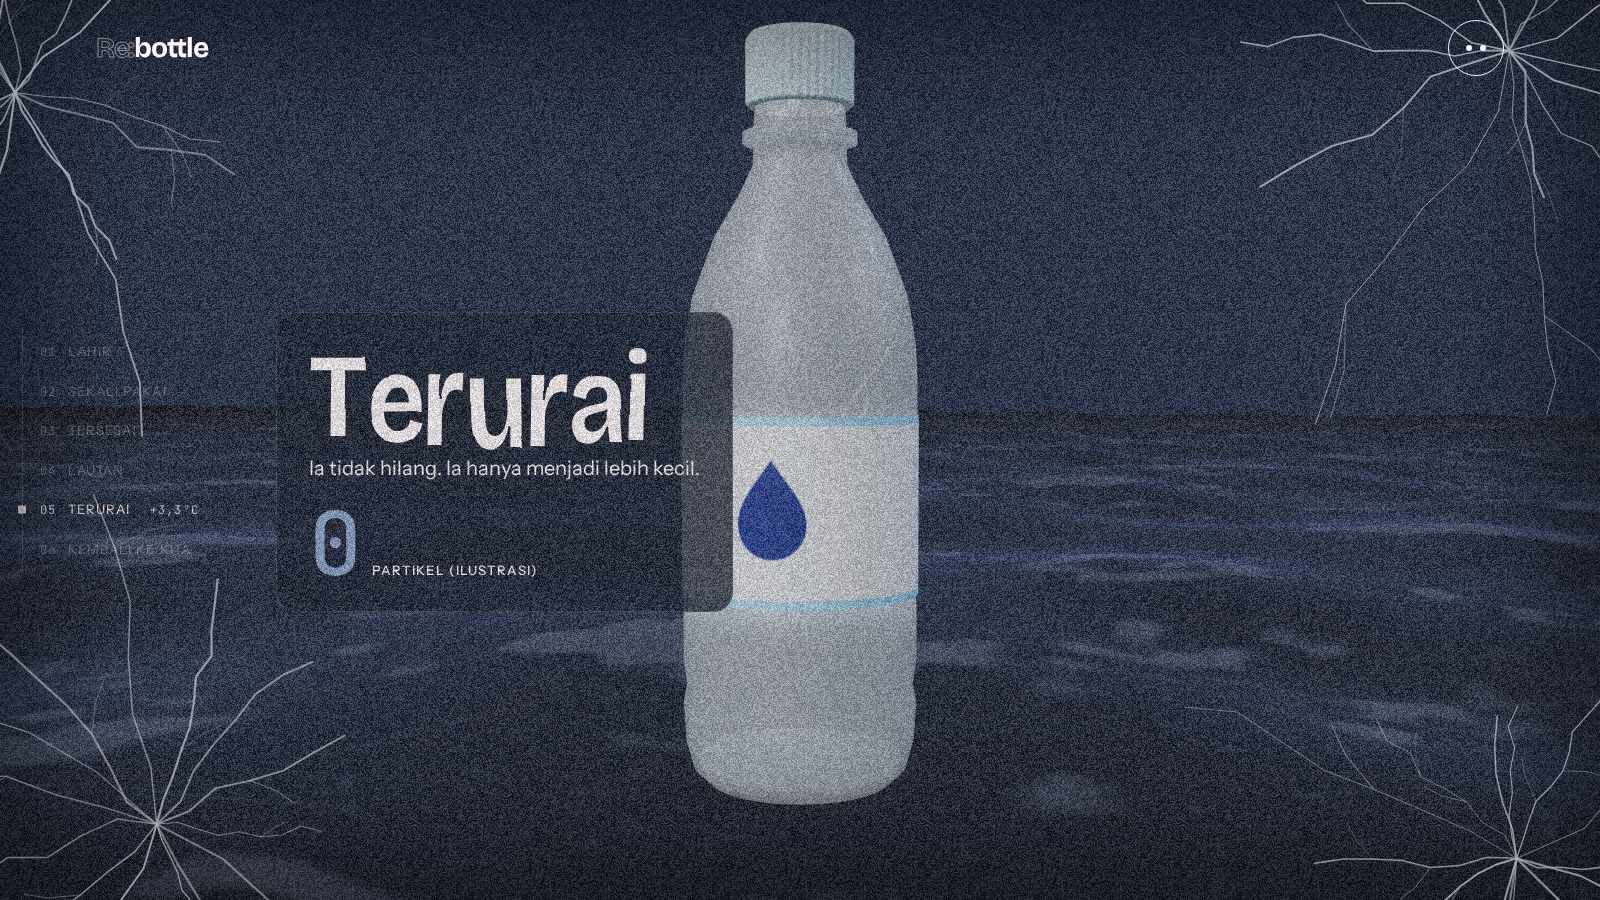
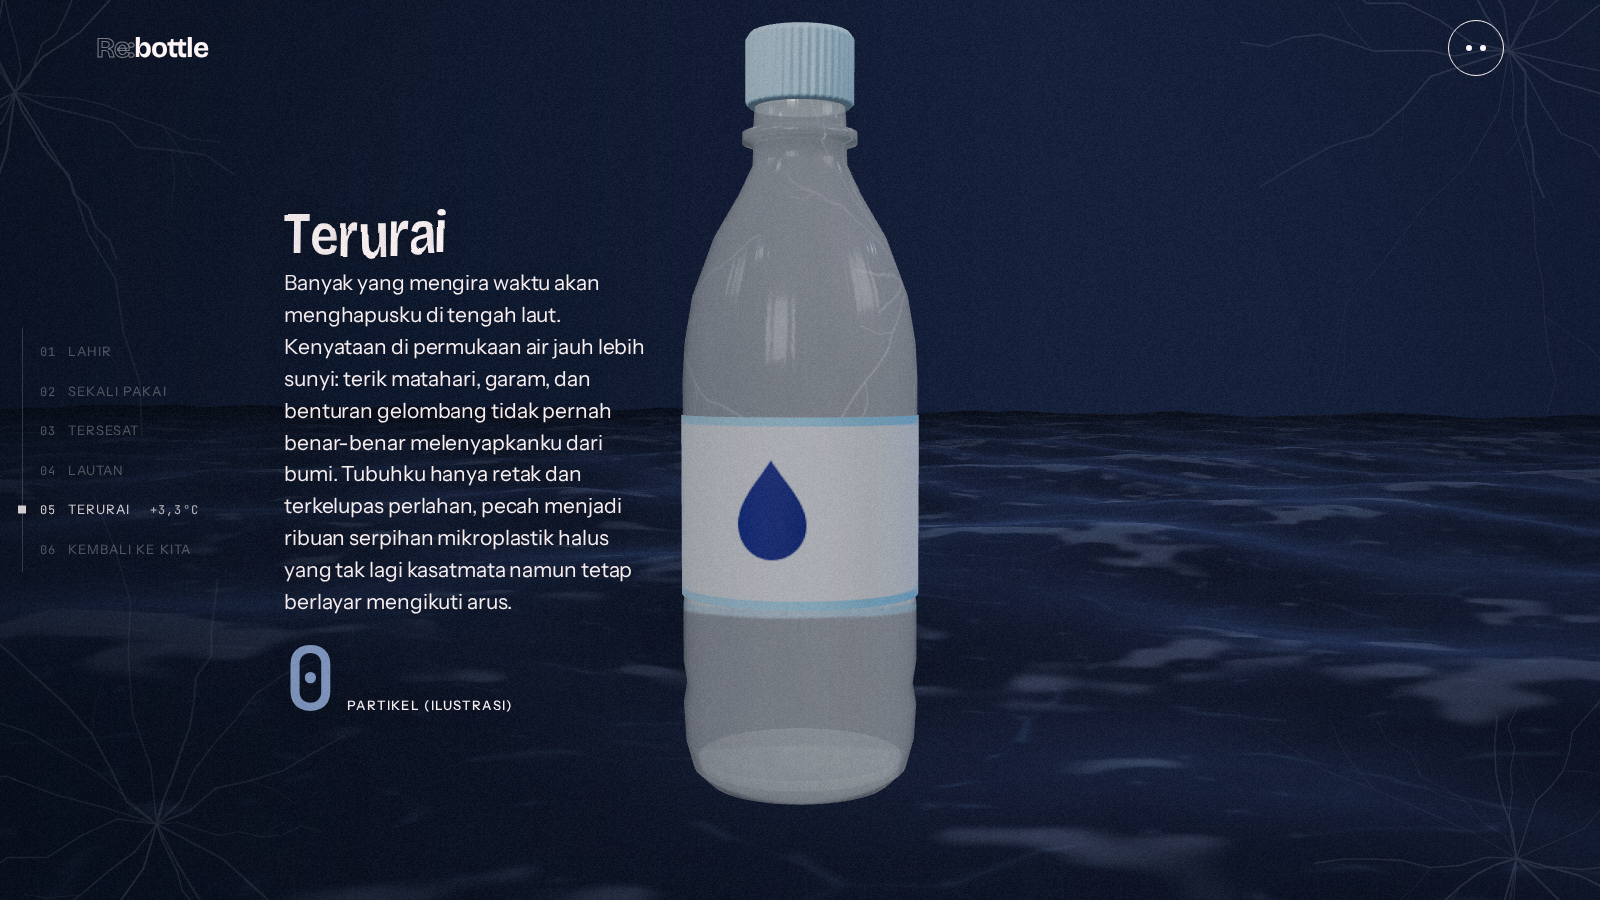
docs(project): simpan bukti visual dan verifikasi revisi Home

diff --git a/src/content/copy.ts b/src/content/copy.ts
@@ -1,5 +1,5 @@
 // Naskah situs berdasarkan kunci final (docs/11 bagian 2 dan 5).
-// Teks bertanda [DISEPAKATI] di dokumen tidak boleh diubah tanpa persetujuan tim.
+// Revisi narasi Home disetujui pemilik proyek; identitas, konteks skenario, dan CTA dipertahankan.
 // Angka tidak ditulis di sini: gunakan kunci di facts.ts.
 
 export const COPY = {

diff --git a/docs/PERF_LOG.md b/docs/PERF_LOG.md
@@ -37,7 +37,7 @@ Biaya render dan FPS rAF adalah metrik berbeda. Jangan menyatakan 1/biaya render
 
 ## Bundle dan aset
 
-Baseline build terintegrasi: Three sekitar149 KB gzip (target180), GSAP27,45 KB (target35), kode Home/stage terpisah di bawah120 KB, CSS gzip sekitar14 KB (target30). Font250.824 B total dan135.488 B kritis serta JS awal sekitar140 KB melampaui target prototipe; alasan dicatat di DECISIONS. Poster aktual1600×900 dan800×1200 masing-masing sekitar10 KB/7 KB; OG1200×630 sekitar24 KB. Jalankan build akhir untuk ukuran hash terbaru.
+Baseline build terintegrasi: Three sekitar149 KB gzip (target180), GSAP27,45 KB (target35), kode Home/stage terpisah di bawah120 KB, CSS gzip sekitar14 KB (target30). Font250.824 B total dan135.488 B kritis serta JS awal sekitar140 KB melampaui target prototipe; alasan dicatat di DECISIONS. Poster aktual1600×900 dan800×1200 masing-masing 10.300 B/7.426 B; OG1200×630 25.754 B. Jalankan build akhir untuk ukuran hash terbaru.
 
 ## Bukti yang dapat diulang
 
@@ -47,3 +47,17 @@ Baseline build terintegrasi: Three sekitar149 KB gzip (target180), GSAP27,45 KB 
 - `node scripts/profile.mjs http://localhost:5173/`: instrumentasi DEV ?debug; keluaran lokal `docs/bukti/perf-home.json`.
 
 Lighthouse, Safari/Firefox, perangkat fisik, dan skor rilis tidak diklaim telah selesai.
+
+## Revisi lanjutan 19 November 2026
+
+Material PBR, warna piring/filet, narasi editorial, audio, panjang gulir, buoyancy B3–B5, dan kain B10 sudah terintegrasi. Poster serta sebelas PNG di docs/shots diperbarui dari WebGL aktual. B7 diperbaiki lagi agar tiga tempat sampah berada di luar kolom teks desktop. Tangkapan statis membuktikan hasil render pada keyframe, bukan kelancaran seluruh perjalanan.
+
+Regresi baru menguji tarikan loop penuh pada frame terlambat serta penyerapan momentum setelah reset yang render awalnya lambat. Tidak ada klaim bahwa pengujian SwiftShader memenuhi target GPU/HP fisik.
+
+### Sampel gerak setelah koreksi apung
+
+Chromium WebGL software, portrait 390×844, LOW; empat wheel kecil 35 px per scene dan 24 frame teramati setelah posisi plateau. Delta tertinggi per frame: B3 Y 0,00320 unit/orientasi 0,5742°, B4 Y 0,00542 unit/orientasi 0,1509°, B5 Y 0/orientasi 0,0228°. Angka ini adalah sampel gerak, bukan tolok ukur FPS atau jaminan semua perangkat. Delapan keyframe B6/B7/B10 pada desktop HIGH 1600×900 dan portrait LOW 390×844 memiliki glError=0, tanpa overflow horizontal atau galat halaman. Bukti lokal: docs/bukti/final/review.json dan PNG terkait.
+
+### Pemeriksaan akhir
+
+19 November 2026: TypeScript, ESLint, build produksi, 48 berkas/193 tes unit, dan 12/12 skenario Playwright Chromium lulus. Suite browser penuh terakhir berjalan 1,2 menit. Hasil mencakup readiness kanvas, poster, input/ratchet, menu/fokus, keyframe, loop, reduced-motion, context loss, tema rute, overflow mobile, Web Audio, dan smoke seluruh rute. Tidak mengirim formulir atau pesan nyata.

diff --git a/docs/BOARD.md b/docs/BOARD.md
@@ -146,3 +146,14 @@
 - Pengguna meminta revisi visual besar: material PBR dan warna komponen, layout editorial tanpa kotak besar, narasi lebih emosional, audio dinamis, serta motion lebih lambat. Revisi ini menggantikan batas visual prototipe yang lebih ketat; konsep utama tetap.
 - T6.1/T6.2 mempunyai baseline baru dan regresi, tetapi tuning perangkat fisik belum disahkan. T10.1 mempunyai ukuran serta pengecualian tercatat. T10.2 mempunyai profil software dan lifecycle, bukan klaim target FPS perangkat nyata. T11.4 mempunyai panduan demo; latihan/video opsional belum dilakukan.
 - Data tim, kontak produksi, endpoint dan artikel/README final tetap mengikuti pekerjaan dan konfigurasi B. QA lintas perangkat/browser serta Lighthouse tetap opsional sesuai12§8 dan belum diklaim selesai.
+
+## Integrasi lanjutan 19 November 2026
+
+- Perbaikan B3–B5: fase air terpisah dari gulir, redaman posisi dan orientasi, serta penghapusan getaran cepat.
+- Perbaikan B10: geometri kain bervolume, lipatan gravitasi, sag tas, penyangga/hanger, dan flutter kain kecil; material rigid tetap rigid. Anyaman mikro dan pantulan diperhalus setelah inspeksi gambar.
+- Perbaikan komposisi B7: kamera mengosongkan kolom narasi kiri tanpa mengubah koordinat aksi tangan/botol.
+- Poster Home/OG dan sebelas bukti scene diperbarui; judul aksesibel sampul A2 kini sesuai judul artikel tanpa angka 450 tahun.
+- Kontrak tes naskah mengikuti revisi editorial yang disetujui pengguna; brand, skenario, judul, placeholder fakta, dan CTA tetap dijaga.
+- Performa HP fisik, browser selain Chromium, serta data kontak/endpoint rilis asli masih memerlukan validasi atau konfigurasi tim.
+
+Pemeriksaan akhir integrasi: TypeScript, ESLint, build, 193 tes unit, dan 12 skenario E2E Chromium lulus. Semua perbaikan kode prioritas sudah dipush main melalui commit terpisah. Tenggat awal 18 November pukul 23.30 terlewati; verifikasi akhir selesai 19 November.

diff --git a/docs/CHANGELOG_PARAMETER.md b/docs/CHANGELOG_PARAMETER.md
@@ -21,3 +21,5 @@ Tidak memakai ScrollTrigger kedua: engine dan seluruh tampilan tetap berbagi sat
 B3–B5 menggunakan fase gelombang berbasis waktu, terpisah dari progres gulir. B3/B4 memakai redaman kritis posisi dan slerp dengan batas kemiringan ±5°; B5 menghapus getaran berfrekuensi tinggi. Pengujian mencakup scrub maju-mundur, reset, dt=0, serta sampling CPU dan shader air.
 
 Pakaian memakai shell kain bervolume dengan bahu/lengan jatuh, lipatan gravitasi, kelim melengkung, dan flutter maksimum 0,004 unit. Tas memakai sag; kayu, keramik, dan metal tetap rigid. Normal kain diperkecil menjadi 0,14–0,20 dan anyaman diperkecil skalanya agar tidak tampak seperti permukaan plastik timbul.
+
+Reset loop juga menahan sisa momentum pointer sampai tidak ada masukan selama 350 ms, sehingga akhir satu gestur tidak langsung menggerakkan hero kembali. Keyboard dan gestur baru setelah jeda tetap diterima. Bab 7 memakai offset proyeksi kamera desktop untuk memisahkan tiga tempat sampah dari kolom narasi tanpa mengubah koordinat aksi tangan dan botol.
